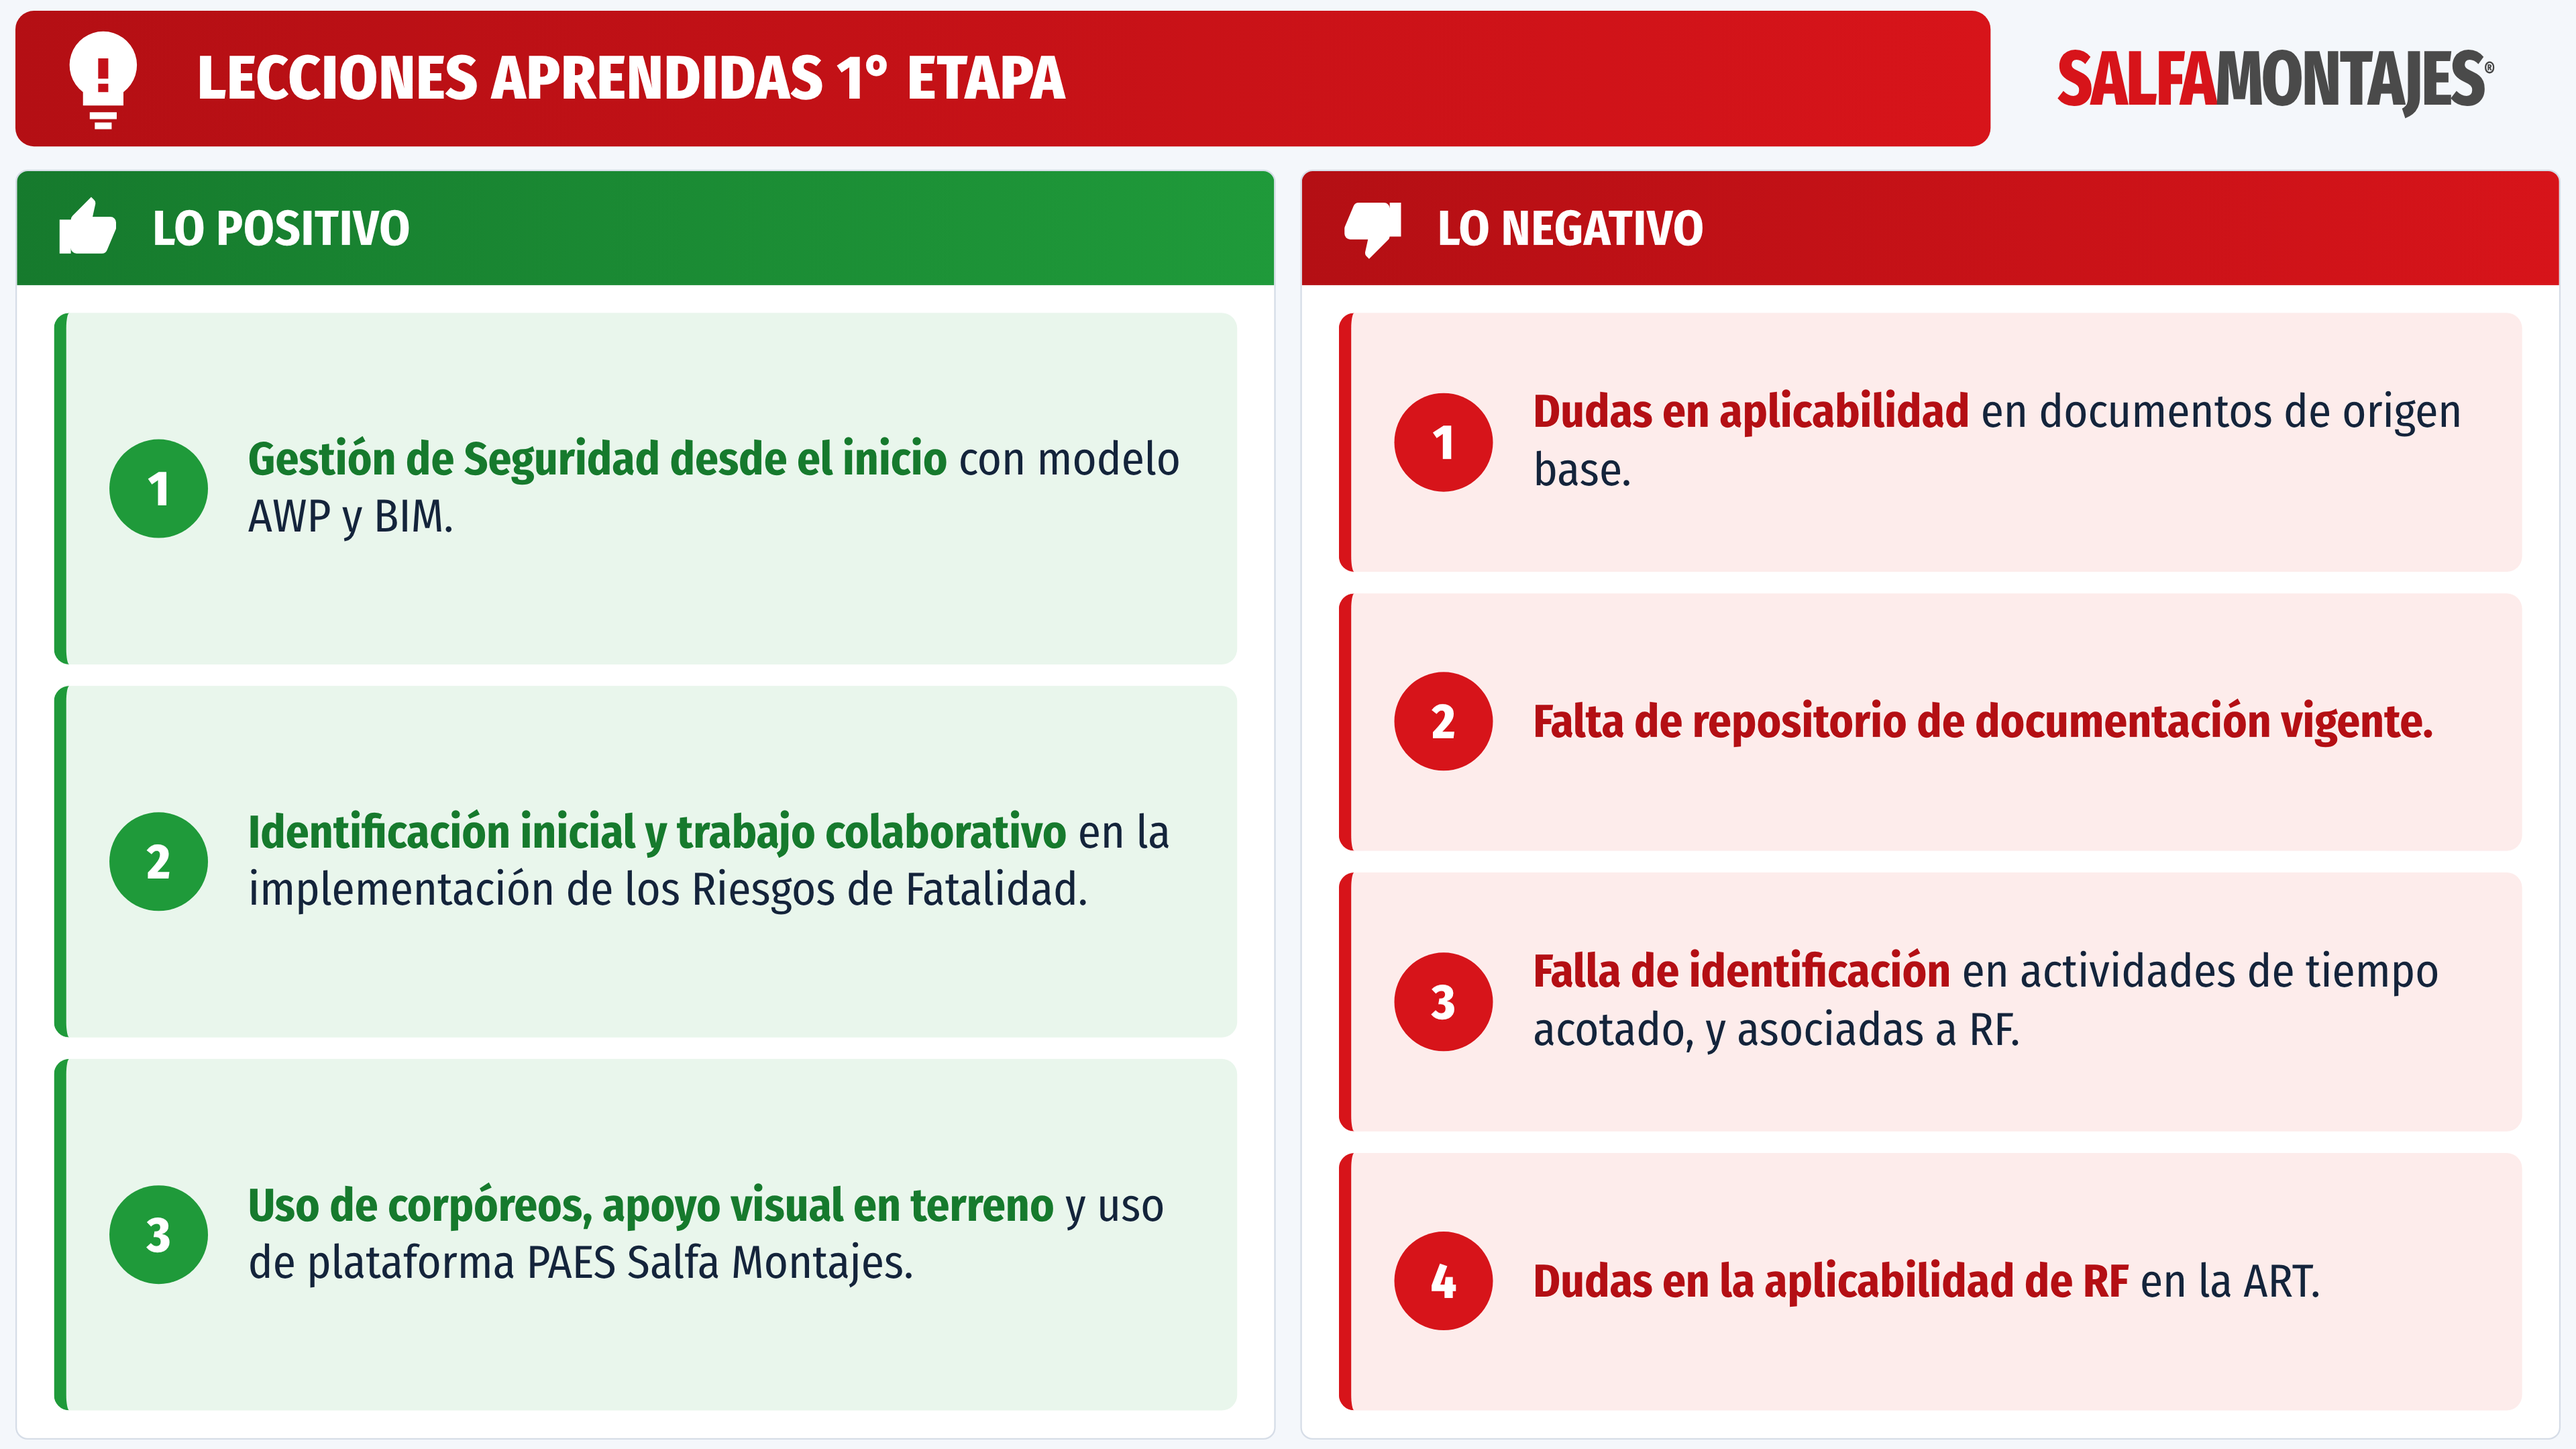
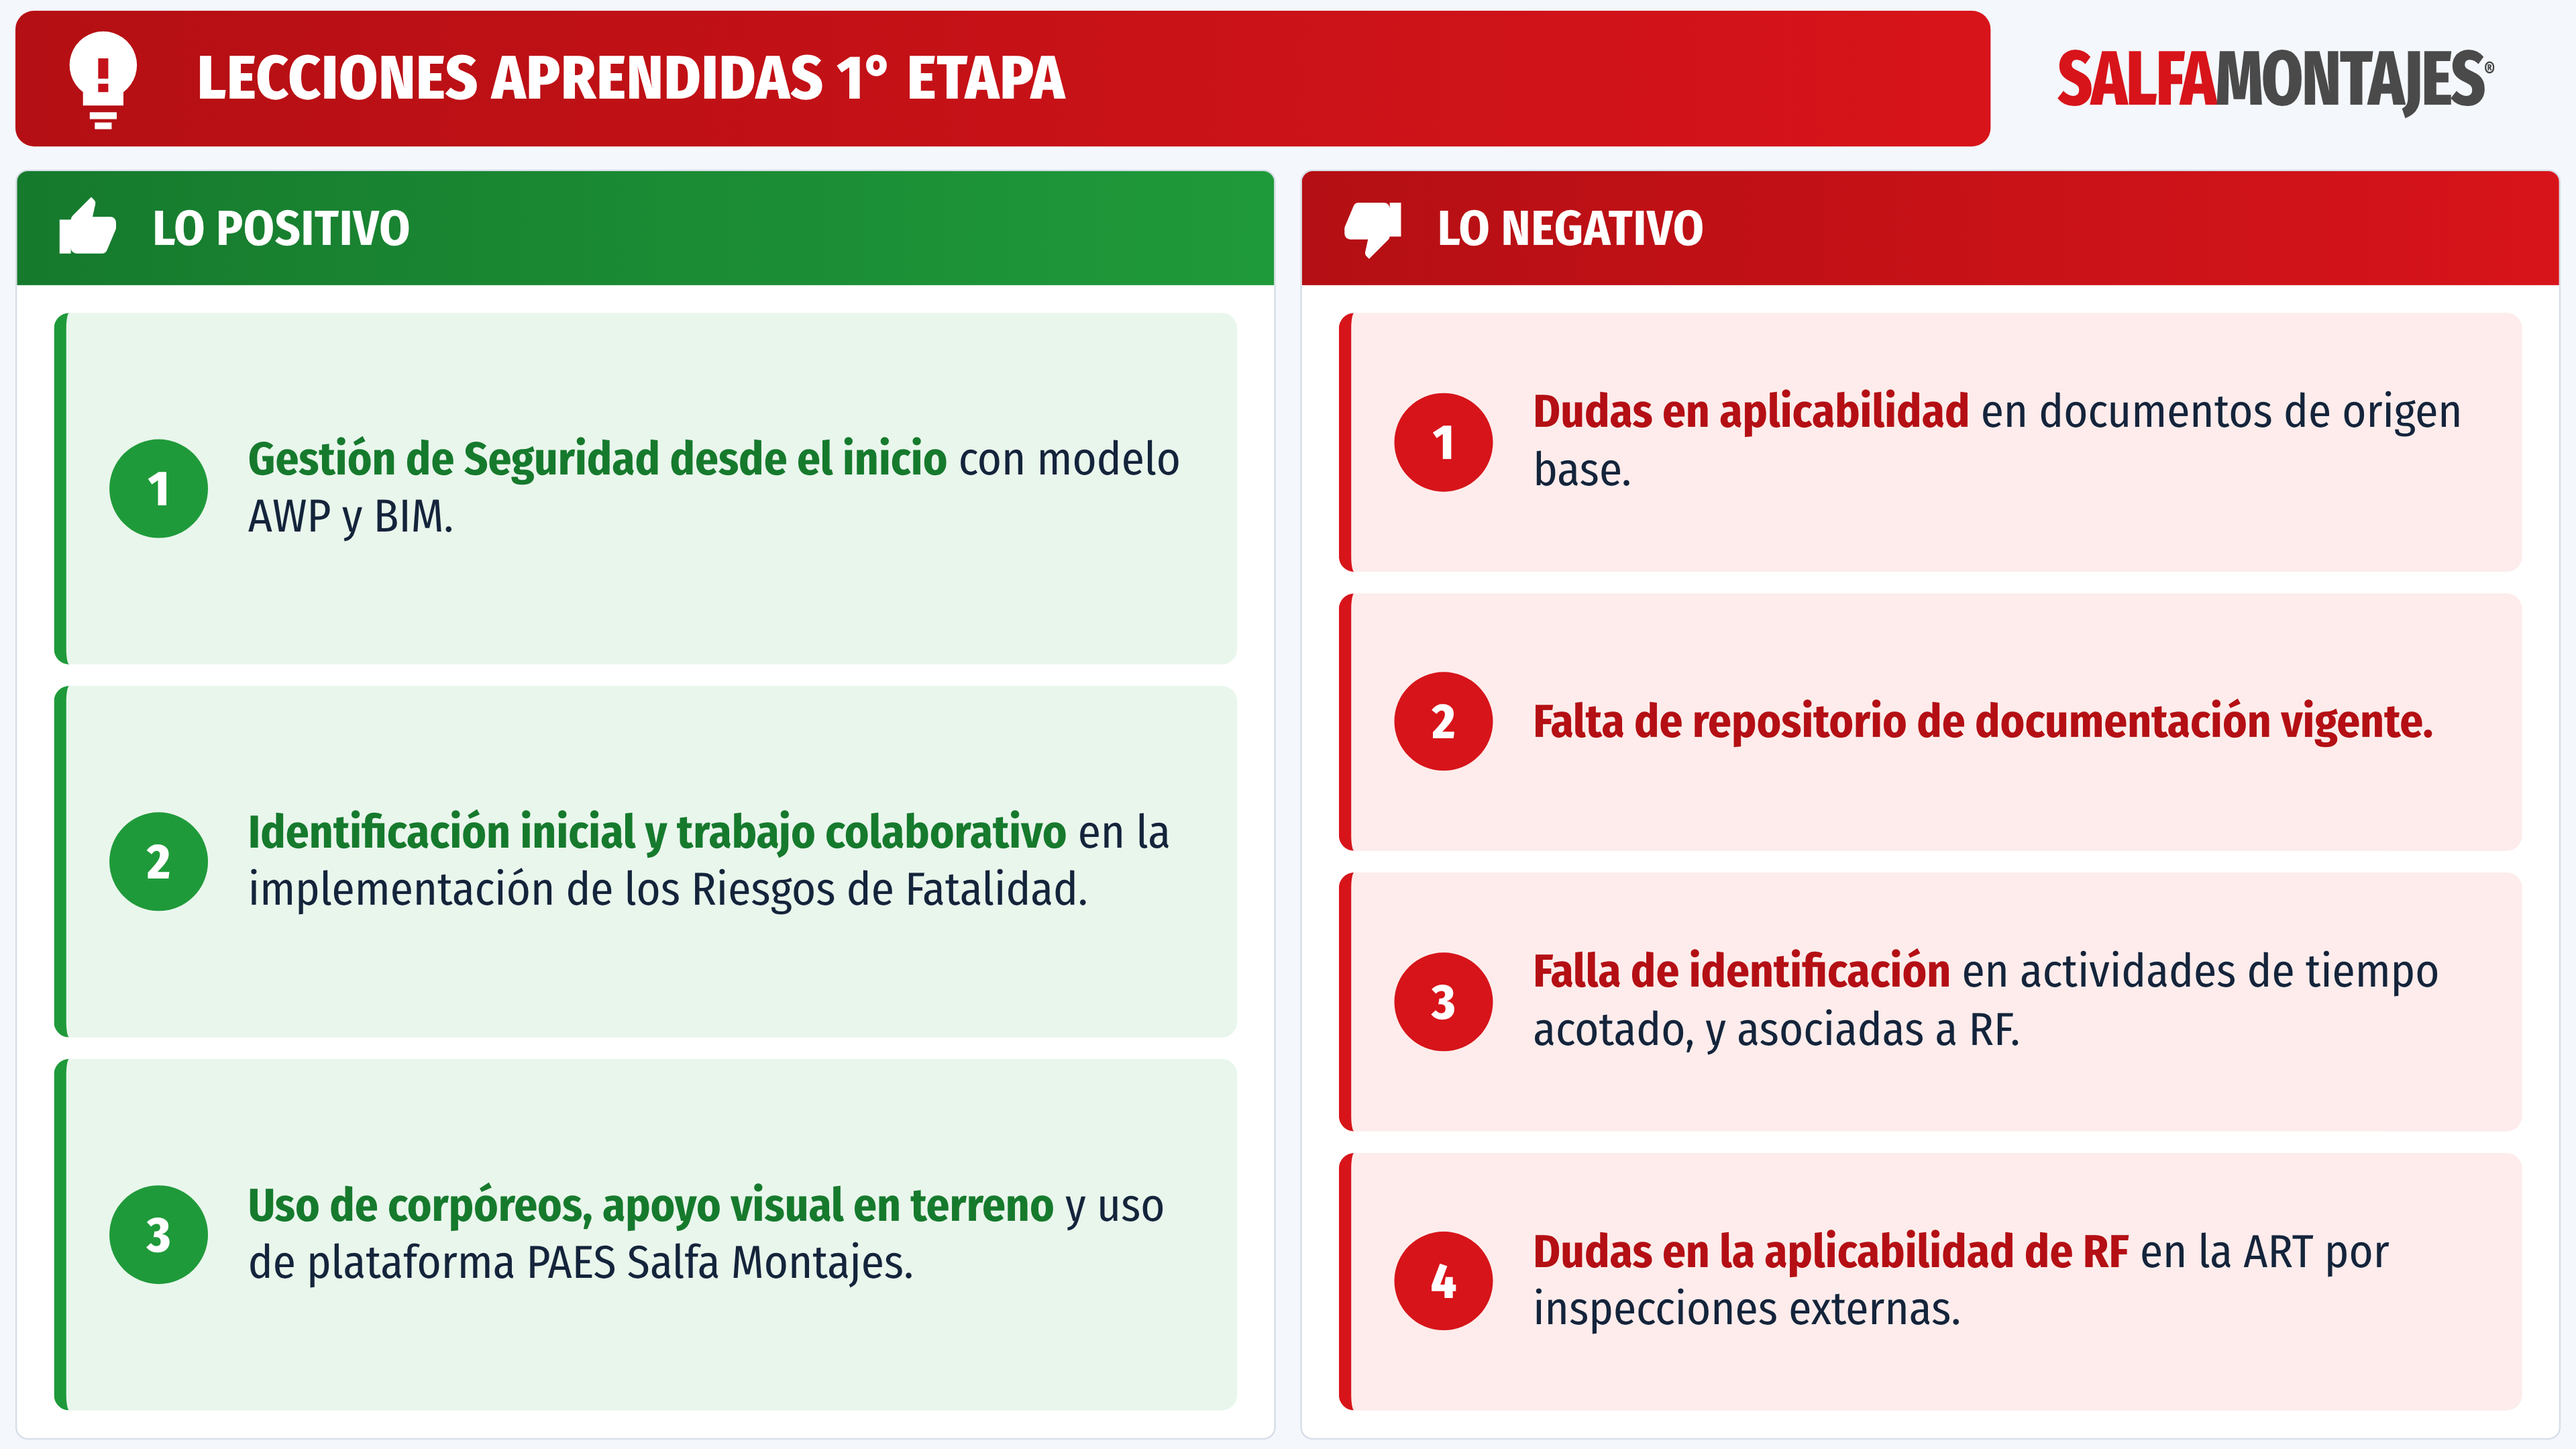
Ajustar punto negativo 4: dudas de RF en la ART por inspecciones externas
Claude-Session: https://claude.ai/code/session_01R7SUHWrVXsce4pGmmGYyHg

Changed region(s): [[0.5938, 0.8375, 0.9375, 0.9306]]

diff --git a/lecciones-aprendidas-etapa-1.html b/lecciones-aprendidas-etapa-1.html
@@ -55,7 +55,7 @@
       <li><span class="num">1</span><span><b>Dudas en aplicabilidad</b> en documentos de origen base.</span></li>
       <li><span class="num">2</span><span><b>Falta de repositorio de documentación vigente.</b></span></li>
       <li><span class="num">3</span><span><b>Falla de identificación</b> en actividades de tiempo acotado, y asociadas a RF.</span></li>
-      <li><span class="num">4</span><span><b>Dudas en la aplicabilidad de RF</b> en la ART.</span></li>
+      <li><span class="num">4</span><span><b>Dudas en la aplicabilidad de RF</b> en la ART por inspecciones externas.</span></li>
     </ul>
   </section>
 </div>
